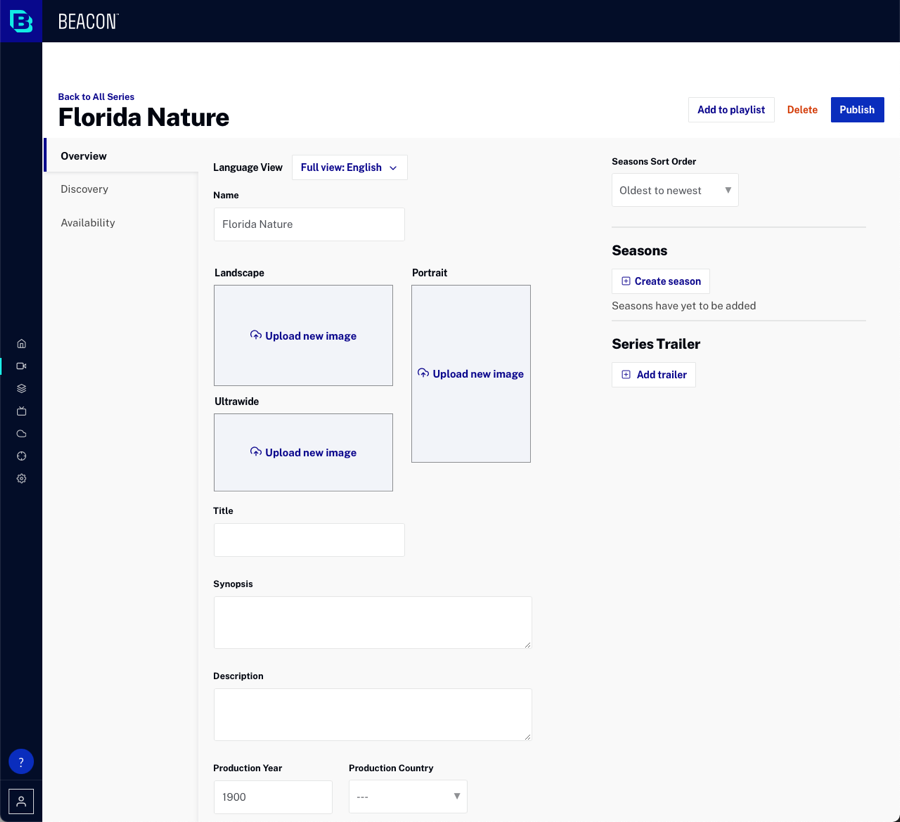
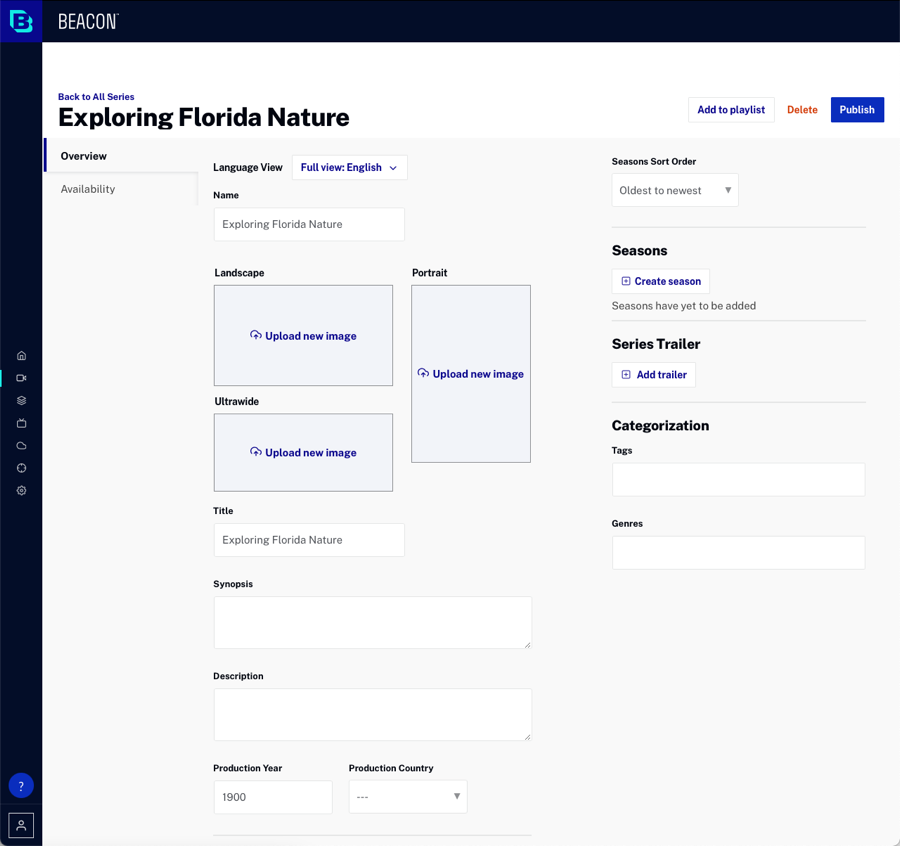
updates

diff --git a/_site/media/editing-series-details.html b/_site/media/editing-series-details.html
@@ -1387,7 +1387,6 @@ function doGTranslate(lang_pair) {if(lang_pair.value)lang_pair=lang_pair.value;i
     <p>The series details are organized into the following tabs:</p>
     <ul>
       <li><a href="#overview">Overview</a></li>
-      <li><a href="#discovery">Discovery</a></li>
       <li><a href="#availability">Availability</a></li>
     </ul>
   </section>
@@ -1403,7 +1402,7 @@ function doGTranslate(lang_pair) {if(lang_pair.value)lang_pair=lang_pair.value;i
       <li><strong>Description</strong> - Series description</li>
       <li>Production Year</li>
       <li>Production Country</li>
-      <li>Cast Information
+      <li>Cast
         <ul>
           <li>Actors</li>
           <li>Directors</li>
@@ -1413,14 +1412,15 @@ function doGTranslate(lang_pair) {if(lang_pair.value)lang_pair=lang_pair.value;i
           <li>Writers</li>
         </ul>
       </li>
+      <li>Categorization
+        <ul>
+          <li>Tags</li>
+          <li>Genres</li>
+        </ul>
+      </li>
     </ul>
     <figure class="bcls-figure"></figure>
     <p>Any changes made will be autosaved when you leave a field or press enter. Buttons on the right side of the page provide the ability to <a href="/media/creating-series-seasons-episodes.html#creating_seasons">create a season</a> and add a <a href="/media/creating-series-seasons-episodes.html#season_trailer">series trailer</a>.</p>
-  </section>
-  <section class="bcls-section">
-    <h2 id="discovery">Discovery</h2>
-    <p>The <strong>Discovery</strong> tab displays the <strong>Tags</strong> and <strong>Genres</strong> for the series.</p>
-    <figure class="bcls-figure"><img class="bcls-image--no-border" alt="" src="/assets/images/media/series-discovery-tab.png" /></figure>
   </section>
   <section class="bcls-section">
     <h2 id="availability">Availability</h2>

diff --git a/media/editing-series-details.html b/media/editing-series-details.html
@@ -18,7 +18,6 @@ description: In this topic you will learn how to edit series details.
     <p>The series details are organized into the following tabs:</p>
     <ul>
       <li><a href="#overview">Overview</a></li>
-      <li><a href="#discovery">Discovery</a></li>
       <li><a href="#availability">Availability</a></li>
     </ul>
   </section>
@@ -34,7 +33,7 @@ description: In this topic you will learn how to edit series details.
       <li><strong>Description</strong> - Series description</li>
       <li>Production Year</li>
       <li>Production Country</li>
-      <li>Cast Information
+      <li>Cast
         <ul>
           <li>Actors</li>
           <li>Directors</li>
@@ -44,14 +43,15 @@ description: In this topic you will learn how to edit series details.
           <li>Writers</li>
         </ul>
       </li>
+      <li>Categorization
+        <ul>
+          <li>Tags</li>
+          <li>Genres</li>
+        </ul>
+      </li>
     </ul>
     <figure class="bcls-figure"></figure>
     <p>Any changes made will be autosaved when you leave a field or press enter. Buttons on the right side of the page provide the ability to <a href="/media/creating-series-seasons-episodes.html#creating_seasons">create a season</a> and add a <a href="/media/creating-series-seasons-episodes.html#season_trailer">series trailer</a>.</p>
-  </section>
-  <section class="bcls-section">
-    <h2 id="discovery">Discovery</h2>
-    <p>The <strong>Discovery</strong> tab displays the <strong>Tags</strong> and <strong>Genres</strong> for the series.</p>
-    <figure class="bcls-figure"><img class="bcls-image--no-border" alt="" src="/assets/images/media/series-discovery-tab.png" /></figure>
   </section>
   <section class="bcls-section">
     <h2 id="availability">Availability</h2>

diff --git a/_site/media/creating-managing-rule-sets.html b/_site/media/creating-managing-rule-sets.html
@@ -1474,7 +1474,7 @@ function doGTranslate(lang_pair) {if(lang_pair.value)lang_pair=lang_pair.value;i
 
 <hr>
 <div id="last_updated" class="last-updated">
-  Page last updated on 14 Oct 2021
+  Page last updated on 04 Nov 2021
 </div>
 
 
